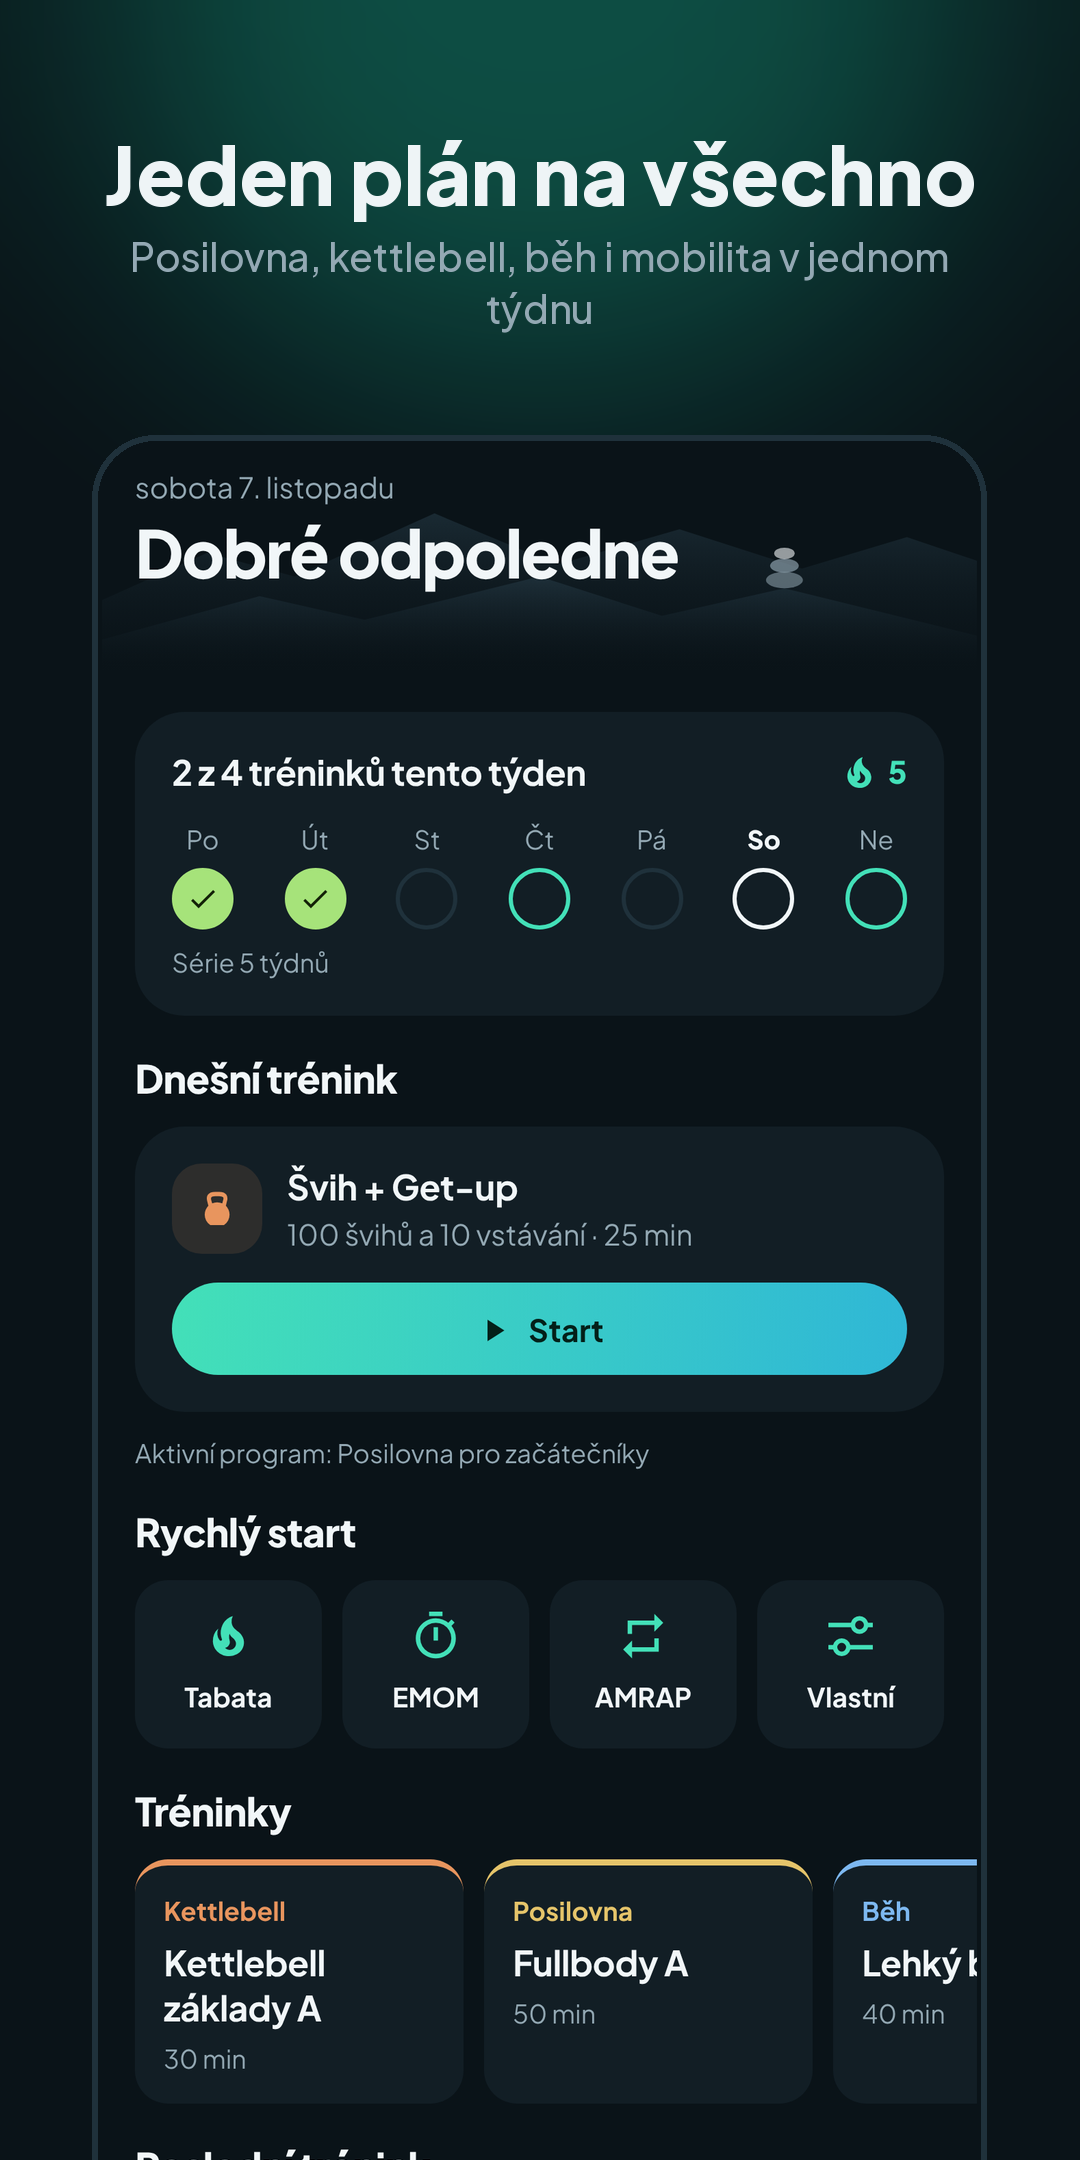
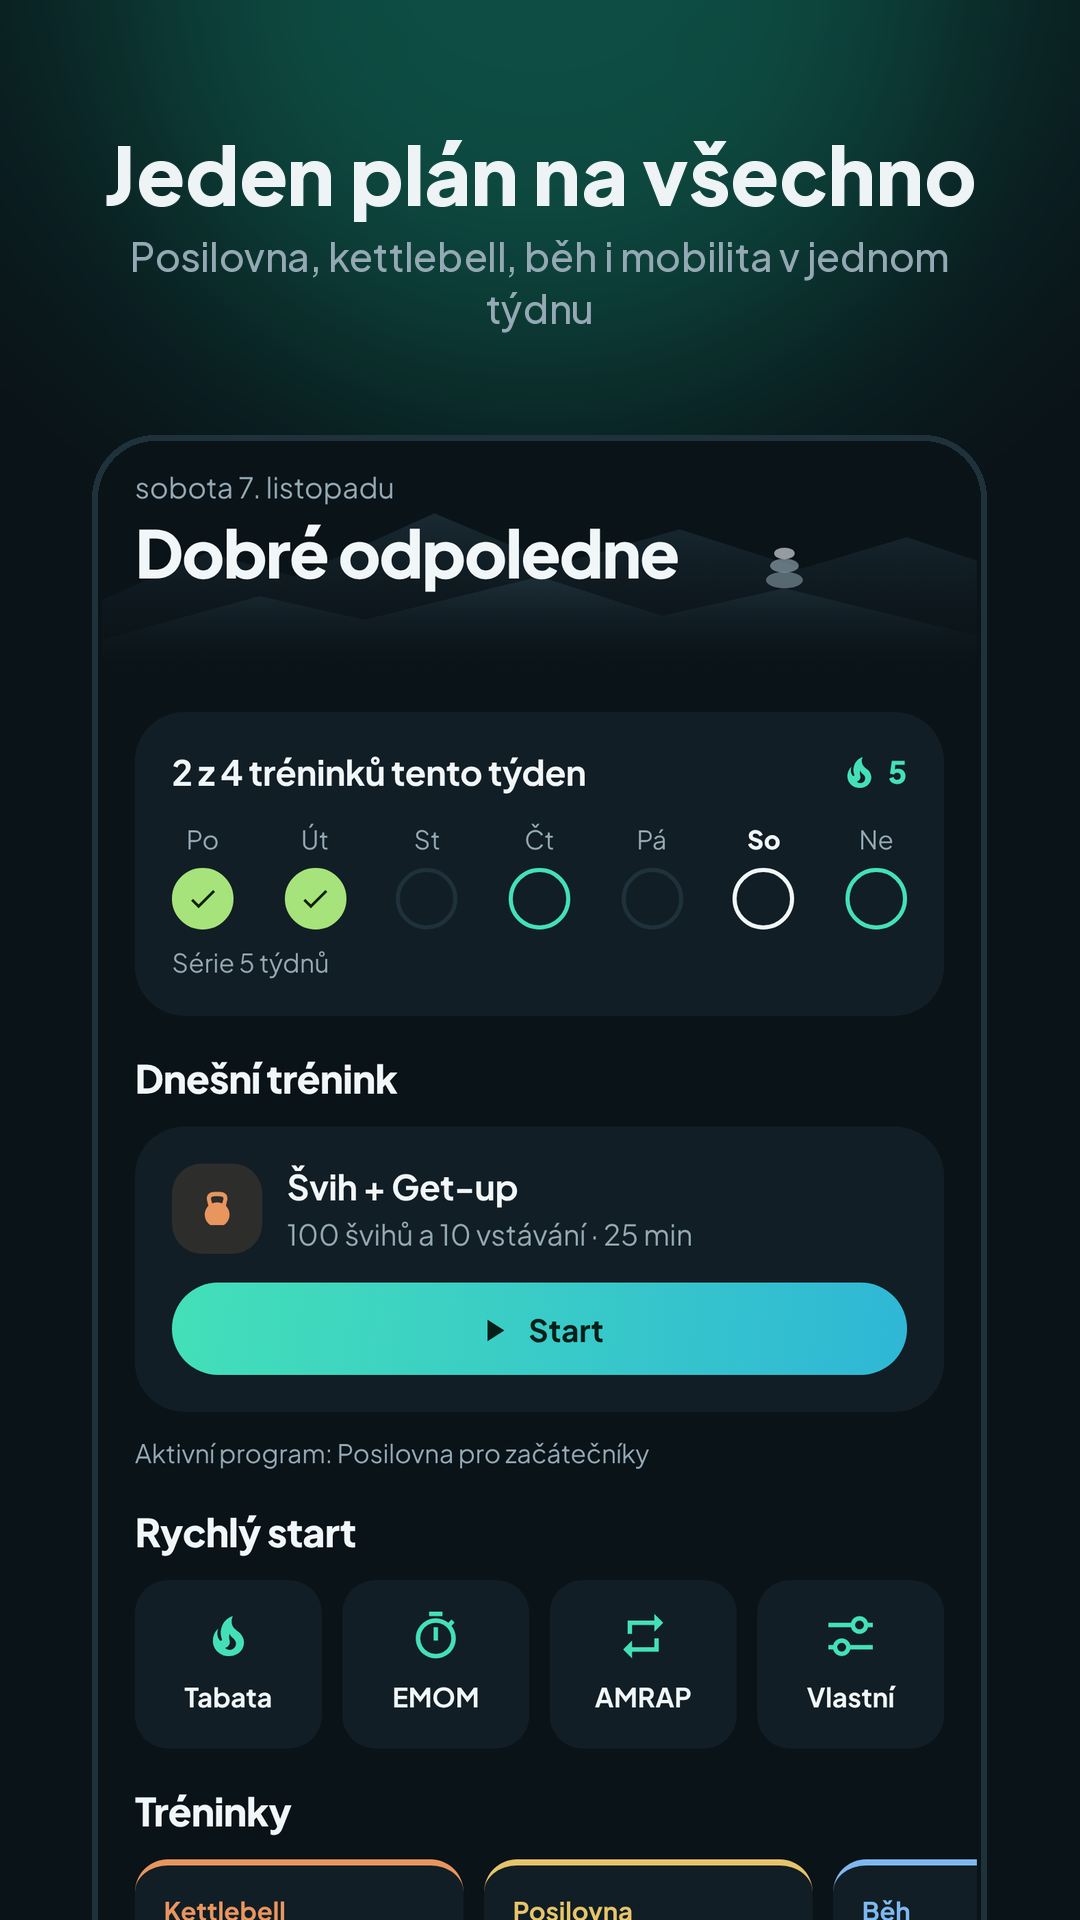
Play screenshots in 9:16 (1080x1920)
Claude-Session: https://claude.ai/code/session_01Ax8BCQuuLxsfp3kJXUDZgA

diff --git a/design/screenshots/make.py b/design/screenshots/make.py
@@ -21,8 +21,8 @@ DIST = Path(sys.argv[1])
 OUT = Path(sys.argv[2])
 OUT.mkdir(parents=True, exist_ok=True)
 PORT = 8790
-# App Store 6.9": 1320x2868. Google Play needs an aspect ratio of at most 2:1 → SIZE=play gives 1080x2160.
-W, H = (1080, 2160) if os.environ.get('SIZE') == 'play' else (1320, 2868)
+# App Store 6.9": 1320x2868. Google Play wants 9:16 → SIZE=play gives 1080x1920.
+W, H = (1080, 1920) if os.environ.get('SIZE') == 'play' else (1320, 2868)
 K = W / 1320  # scale for type and layout
 SUFFIX = '_play' if os.environ.get('SIZE') == 'play' else ''
 BG = (10, 19, 24)
